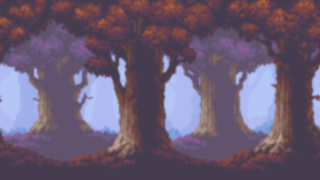
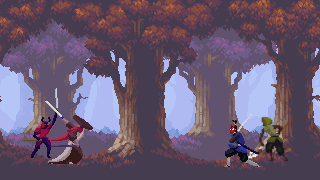
new basic menu, fixed map 2 player positions

diff --git a/menu.html b/menu.html
@@ -1,14 +1,37 @@
 <!DOCTYPE html>
 <html>
 <head>
+	<link rel="preconnect" href="https://fonts.googleapis.com">
+    <link rel="preconnect" href="https://fonts.gstatic.com" crossorigin>
+    <link href="https://fonts.googleapis.com/css2?family=Press+Start+2P&display=swap" rel="stylesheet">
+	<style>
+        * {
+            box-sizing: border-box;
+            font-family: 'Press Start 2P', cursive;
+        }
+    </style>
+
+	<style> 
+		.button1 {
+		background-color: #4CAF50; /* Green */
+		border: none;
+  		color: white;
+  		padding: 30px 60px;
+  		text-align: center;
+  		text-decoration: none;
+  		display: inline-block;
+  		font-size: 20px;
+		}
+	</style> 
+
 	<title>FighterGame</title>
 </head>
 
 <body>
 	<body style="background-image: url('./assets/menu-bg.png'); background-size: 2048px 1152px ; background-repeat: no-repeat;"></body>
-	<h1 style = "display: flex; align-items: center; justify-content: center;">FighterGame</h1>
-	<button onclick="openHtml('map1.html')">Level 1</button>
-	<button onclick="openHtml('map2.html')">Level 2</button>
+	<h1 style="font-size: 100px; color: white; -webkit-text-stroke: 4px black">FighterGame</h1>
+	<button class="button1" onclick="openHtml('map1.html')">Level 1</button>
+	<button class="button1" onclick="openHtml('map2.html')">Level 2</button>
 
 	<script>
 		function openHtml(url) {

diff --git a/js/classes.js b/js/classes.js
@@ -170,10 +170,10 @@ class Fighter extends Sprite{
             } 
         }
 
-        if (this.position.y + this.height + this.velocity.y >= canvas.height - 100) {
+        if (this.position.y + this.height + this.velocity.y >= canvas.height - 40) {
             // stop player from sinking into the ground upon initial impact from spawn fall
             this.velocity.y = 0
-            this.position.y = 752
+            this.position.y = 812
         }
     }
 

diff --git a/map2.js b/map2.js
@@ -91,7 +91,7 @@ const player1 = new Fighter({
     framesMax: 10,
     offset: {
         x: 345,
-        y: 290
+        y: 305
     }, 
     sprites: {
         idle: {
